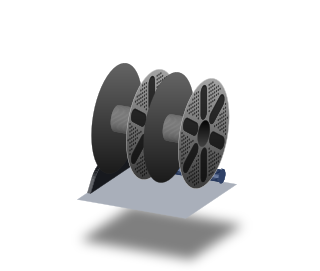
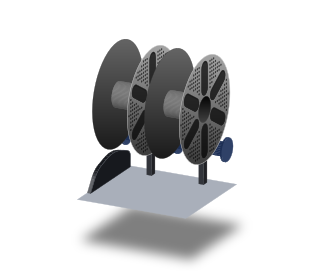
fix(unit-art): Night Owl rollers match the photos: two solid drums per lane, top bearings, high rear rollers (prestonbrown/helixscreen#2068)

Changed region(s): [[0.2812, 0.1181, 0.75, 0.7085]]

diff --git a/scripts/unit_art/units/night_owl.py b/scripts/unit_art/units/night_owl.py
@@ -14,13 +14,18 @@ SCALE = SPOOL_R / LOCAL_R
 W, D = 1.0, 0.92
 FOOT_Z, TOP = 0.045, 0.36
 FRAME, PANEL, DECK, PLATE, RUBBER = "#1d2f55", "#14171f", "#a9afba", "#17191e", "#2e2f33"
-DRUM, SHEEN = "#1b1c20", "#50545e"
+DRUM, SHEEN = "#2b2d33", "#5c606b"
 CENTERS = [0.26, 0.74]
-SPOOL_Y = 0.52
-ROLLER_Y, ROLLER_R = 0.2, 0.115
-ROLLER_Z = TOP + 0.08
+# Each lane is a drum, a pod and a drum; a spool's flanges ride on the two drums.
+LANE_HALF, POD_HALF = 0.21, 0.062
+FLANGE_K, FLANGE_W = 1.08, 0.01
+BASE_TOP = TOP + 0.045
+ROLLER_Y, ROLLER_R = 0.25, 0.155
+ROLLER_Z = BASE_TOP + ROLLER_R * FLANGE_K + 0.006
+SPOOL_Y = 0.535
+REAR_Y, REAR_R = 0.82, 0.06
 SPOOL_Z = ROLLER_Z + math.sqrt((LOCAL_R + ROLLER_R) ** 2 - (SPOOL_Y - ROLLER_Y) ** 2)
-REAR_Y = 0.82
+REAR_Z = SPOOL_Z - math.sqrt((LOCAL_R + REAR_R) ** 2 - (REAR_Y - SPOOL_Y) ** 2)
 TRAY_PX_PER_UNIT = 46.2 / LOCAL_R
 _REPO = Path(__file__).resolve().parents[3]
 
@@ -32,10 +37,10 @@ def _plate_profile():
 
 
 def _pod_profile():
-    """A motor pod's side: straight up from the deck, round over the roller axle."""
-    r = ROLLER_R * 1.3
-    arc = [(ROLLER_Y - r * math.cos(math.pi * i / 16), ROLLER_Z + r * math.sin(math.pi * i / 16)) for i in range(17)]
-    return [(ROLLER_Y - r, TOP)] + arc + [(ROLLER_Y + r, TOP)]
+    """A pod's side: a yoke standing on the base plate, open above the axle for the bearing."""
+    reach = ROLLER_R * 0.72
+    pts = [(ROLLER_Y - reach, BASE_TOP), (ROLLER_Y - reach, ROLLER_Z + 0.03), (ROLLER_Y + reach, ROLLER_Z + 0.03), (ROLLER_Y + reach, BASE_TOP)]
+    return kit.fillet(pts, [0, 0.05, 0.05, 0], closed=True, steps=6)
 
 
 def _side_plate(sc, x0, x1, plate, cam, near, thick):
@@ -48,20 +53,31 @@ def _side_plate(sc, x0, x1, plate, cam, near, thick):
         sc.line([(x1 + 0.001, y, z) for y, z in inner], "#30343c", 0.006 * thick)
 
 
-def _drive(sc, xc, detail):
-    """One lane's drive: a black roller either side of a rounded motor pod."""
-    half = 0.036
-    rim = {"flange_k": 1.1, "flange_w": 0.012, "sheen": SHEEN}
-    kit.roller(sc, xc - 0.21, xc - half - 0.012, ROLLER_Y, ROLLER_Z, ROLLER_R, DRUM, FRAME, **rim)
-    feeder.solid(sc, _pod_profile(), xc - half, xc + half, FRAME)
-    face = xc + half + 0.001
-    axle = [(face, y, z) for y, z in kit.circle_yz(ROLLER_Y, ROLLER_Z, ROLLER_R * 0.62)]
-    sc.poly(axle, "#c6c9cf")
-    sc.poly([(face, y, z) for y, z in kit.circle_yz(ROLLER_Y, ROLLER_Z, ROLLER_R * 0.34)], "#3a3d44")
+def _bearing(sc, xc, detail):
+    """The steel bearing clamped in the pod's yoke, its outer race showing above the pod."""
+    half, r = POD_HALF * 0.62, ROLLER_R * 0.88
+    sc.extrude_x(kit.circle_yz(ROLLER_Y, ROLLER_Z, r), xc - half, xc + half, "#b9bdc4", 1.0, front=False)
+    sc.poly([(xc + half, y, z) for y, z in kit.circle_yz(ROLLER_Y, ROLLER_Z, r)], "#d7dade")
+    sc.poly([(xc + half, y, z) for y, z in kit.circle_yz(ROLLER_Y, ROLLER_Z, r * 0.74)], "#34373d")
     if detail:
-        sc.line(axle, "#7f838c", 0.004)
-    # The gap and the missing left flange leave the pod's bearing in view.
-    kit.roller(sc, xc + half + 0.04, xc + 0.21, ROLLER_Y, ROLLER_Z, ROLLER_R, DRUM, FRAME, left_flange=False, **rim)
+        for i in range(9):
+            a = 2 * math.pi * i / 9
+            sc.poly([(xc + half, y, z) for y, z in kit.circle_yz(ROLLER_Y + r * 0.62 * math.cos(a), ROLLER_Z + r * 0.62 * math.sin(a), r * 0.09, n=8)], "#c6c9cf")
+
+
+def _drive(sc, xc, detail):
+    """One lane's drive: two black drums butted against a pod between them."""
+    rim = {"flange_k": FLANGE_K, "flange_w": FLANGE_W, "sheen": SHEEN, "end_face": "#101116", "end_hub": FRAME, "solid": True}
+    inner = POD_HALF + FLANGE_W + 0.004
+    feeder.box(sc, xc - LANE_HALF - 0.012, xc + LANE_HALF + 0.012, ROLLER_Y - ROLLER_R - 0.02, ROLLER_Y + ROLLER_R + 0.02, TOP, BASE_TOP, FRAME)
+    kit.roller(sc, xc - LANE_HALF, xc - inner, ROLLER_Y, ROLLER_Z, ROLLER_R, DRUM, FRAME, **rim)
+    _bearing(sc, xc, detail)
+    feeder.solid(sc, _pod_profile(), xc - POD_HALF, xc + POD_HALF, FRAME)
+    if detail:
+        collet = (xc, ROLLER_Y - ROLLER_R * 0.72 - 0.002)
+        feeder.disc(sc, collet[0], collet[1], ROLLER_Z - 0.03, 0.026, "#c6c9cf")
+        feeder.disc(sc, collet[0], collet[1] - 0.001, ROLLER_Z - 0.03, 0.016, "#6f9fdc")
+    kit.roller(sc, xc + inner, xc + LANE_HALF, ROLLER_Y, ROLLER_Z, ROLLER_R, DRUM, FRAME, **rim)
 
 
 def draw_art(scene, colors, tier):
@@ -75,7 +91,9 @@ def draw_art(scene, colors, tier):
     sc.poly([(0.02, 0.02, 0), (W + 0.04, 0.02, 0), (W + 0.04, D + 0.03, 0), (0.02, D + 0.03, 0)], "#000", 0.5, blur=True)
     sc.poly([(0.0, 0.0, TOP), (W, 0.0, TOP), (W, D, TOP), (0.0, D, TOP)], DECK)
     _side_plate(sc, 0.0, 0.03, plate, cam, False, thick)
-    kit.roller(sc, 0.1, 0.9, REAR_Y, TOP + 0.09, 0.05, FRAME, FRAME)
+    for xc in CENTERS:
+        feeder.box(sc, xc - 0.022, xc + 0.022, REAR_Y - 0.03, REAR_Y + 0.03, TOP, REAR_Z, kit.shift(PLATE, 22))
+        kit.roller(sc, xc - LANE_HALF, xc + LANE_HALF, REAR_Y, REAR_Z, REAR_R, FRAME, FRAME, flange_k=1.7, solid=True)
     for lane, (xc, col) in enumerate(zip(CENTERS, colors)):
         spool.draw_spool(scene, (xc * SCALE, SPOOL_Y * SCALE, SPOOL_Z * SCALE), SPOOL_R, col, c, lane, detail=detail)
 
@@ -90,7 +108,7 @@ def draw_art(scene, colors, tier):
     for xc in CENTERS:
         _drive(sc, xc, detail)
         if detail:
-            tube = feeder.bend((xc, ROLLER_Y - ROLLER_R * 1.3, ROLLER_Z + 0.03), (xc, -0.05, ROLLER_Z), (xc, -0.004, TOP - 0.16))
+            tube = feeder.bend((xc, ROLLER_Y - ROLLER_R * 0.72 - 0.004, ROLLER_Z - 0.03), (xc, -0.06, ROLLER_Z - 0.04), (xc, -0.004, TOP - 0.16))
             sc.line(tube, "#f2f3f4", 0.011)
     _side_plate(sc, W - 0.03, W, plate, cam, True, thick)
 

diff --git a/scripts/unit_art/kit.py b/scripts/unit_art/kit.py
@@ -194,27 +194,35 @@ def circle_yz(y, z, r, n=24):
     return [(y + r * math.cos(2 * math.pi * i / n), z + r * math.sin(2 * math.pi * i / n)) for i in range(n + 1)]
 
 
-def roller(sc, x0, x1, y, z, r, color, flange, flange_k=1.18, flange_w=0.016, left_flange=True, sheen=None, end_face=None):
+def _roller_end(sc, x, y, z, r, face, hub):
+    sc.poly([(x, a, b) for a, b in circle_yz(y, z, r * 0.92)], face)
+    if hub:
+        sc.poly([(x, a, b) for a, b in circle_yz(y, z, r * 0.42)], hub)
+
+
+def roller(sc, x0, x1, y, z, r, color, flange, flange_k=1.18, flange_w=0.016, left_flange=True, sheen=None, end_face=None, end_hub=None, solid=False):
     """A drum along x, flanged at its right end and, unless told not to, its left.
 
     sheen is the colour of a highlight along the drum's lit shoulder, for a colour too dark
     to show its curve by shading alone. end_face fills each flange inside its edge,
-    leaving a thin rim.
+    leaving a thin rim, and end_hub
+    colours a boss at the middle of that face. solid draws the barrel and flange
+    bands' camera-facing halves; without it their far halves show, like a hollow sleeve.
     """
     ring = circle_yz(y, z, r)
     edge = circle_yz(y, z, r * flange_k)
     if left_flange:
-        sc.extrude_x(edge, x0 - flange_w, x0, flange, 1.0, front=True)
+        sc.extrude_x(edge, x0 - flange_w, x0, flange, 1.0, front=not solid)
         sc.poly([(x0, a, b) for a, b in edge], shift(flange, 18))
         if end_face:
-            sc.poly([(x0 + 0.0005, a, b) for a, b in circle_yz(y, z, r * 0.92)], end_face)
-    sc.extrude_x(ring, x0, x1, color, 1.0, front=True)
+            _roller_end(sc, x0 + 0.0005, y, z, r, end_face, end_hub)
+    sc.extrude_x(ring, x0, x1, color, 1.0, front=not solid)
     if sheen:
         sc.line([(x0 + r * 0.1, y - r * 0.6, z + r * 0.8), (x1 - r * 0.1, y - r * 0.6, z + r * 0.8)], sheen, r * 0.2, 0.75)
-    sc.extrude_x(edge, x1, x1 + flange_w, flange, 1.0, front=True)
+    sc.extrude_x(edge, x1, x1 + flange_w, flange, 1.0, front=not solid)
     sc.poly([(x1 + flange_w, a, b) for a, b in edge], shift(flange, 18))
     if end_face:
-        sc.poly([(x1 + flange_w + 0.0005, a, b) for a, b in circle_yz(y, z, r * 0.92)], end_face)
+        _roller_end(sc, x1 + flange_w + 0.0005, y, z, r, end_face, end_hub)
 
 
 def tray_profile(profile, base_z, px_per_unit):
